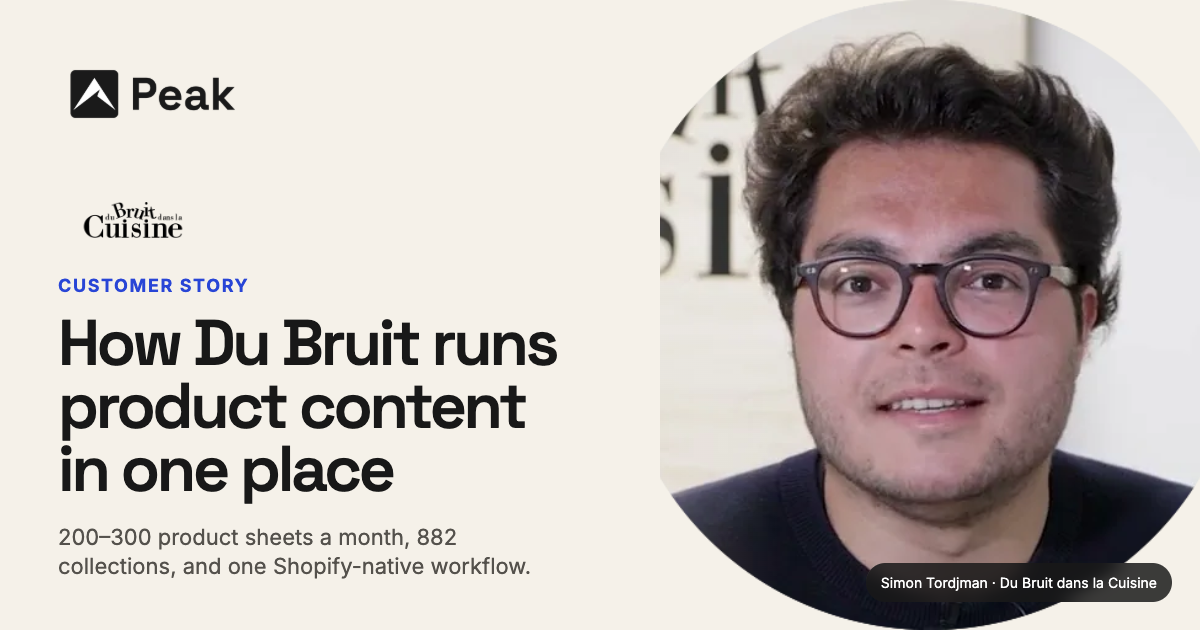
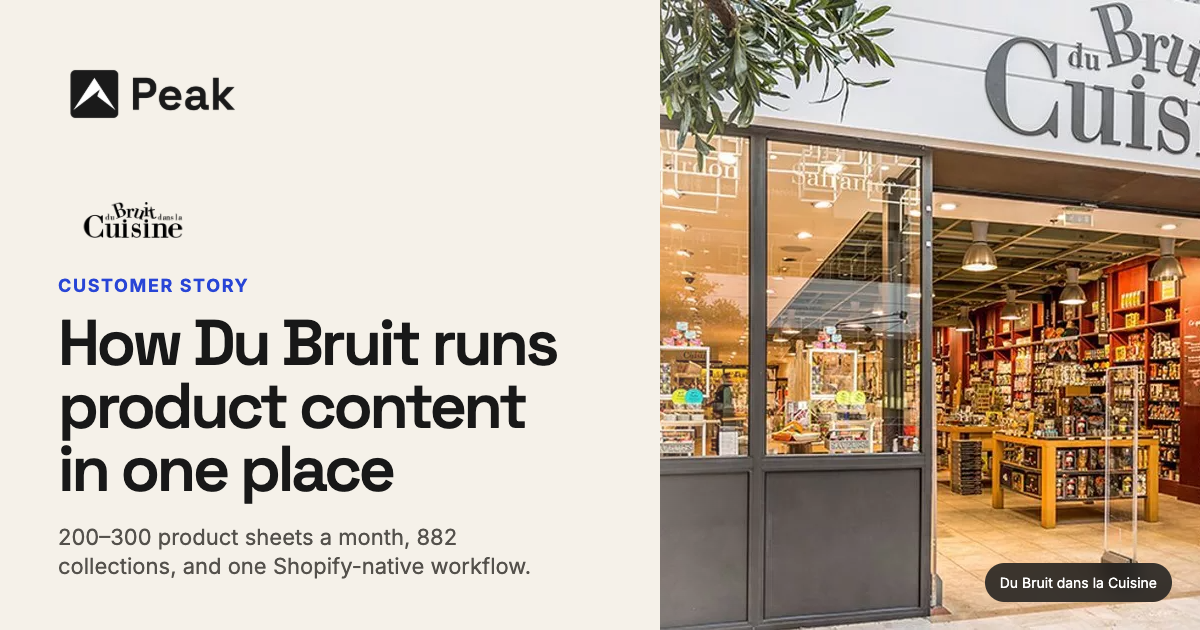
Use storefront photo for Du Bruit story

diff --git a/tests/visual/design-system.spec.ts b/tests/visual/design-system.spec.ts
@@ -93,7 +93,7 @@ test("customers menu · House of Staunton use case fits and links from the share
     await expect(link.locator(".customers-mega-menu__story-content > span:not(.customers-mega-menu__action)")).toHaveText(target.description);
     const duBruitLink = stories.locator('.customers-mega-menu__story-link[href="/customers/du-bruit-dans-la-cuisine/"]');
     await expect(duBruitLink).toBeVisible();
-    await expect(duBruitLink.locator(".customers-mega-menu__story-image > img")).toHaveAttribute("src", "/assets/testimonials/simon-tordjman-du-bruit-dans-la-cuisine.webp");
+    await expect(duBruitLink.locator(".customers-mega-menu__story-image > img")).toHaveAttribute("src", "/assets/testimonials/du-bruit-dans-la-cuisine-storefront.webp");
     await expect(duBruitLink.locator(".customers-mega-menu__story-logo img")).toHaveAttribute("alt", "Du Bruit dans la Cuisine");
     await expect(duBruitLink.locator(".customers-mega-menu__story-content > span:not(.customers-mega-menu__action)")).toHaveText(target.duBruitDescription);
     expect(await link.locator(".customers-mega-menu__story-logo").evaluate((element) => getComputedStyle(element).backgroundColor)).toBe("rgba(25, 25, 25, 0.94)");
@@ -692,7 +692,7 @@ test("global navigation · every feature is grouped and reachable", async ({ pag
     await expect(houseOfStauntonStoryLink.locator(".customers-mega-menu__story-content > span:not(.customers-mega-menu__action)")).toHaveText("Unify product data across three Shopify stores.");
     const duBruitStoryLink = header.locator('.customers-mega-menu__story-link[href="/customers/du-bruit-dans-la-cuisine/"]');
     await expect(duBruitStoryLink).toHaveCount(1);
-    await expect(duBruitStoryLink.locator(".customers-mega-menu__story-image > img")).toHaveAttribute("src", "/assets/testimonials/simon-tordjman-du-bruit-dans-la-cuisine.webp");
+    await expect(duBruitStoryLink.locator(".customers-mega-menu__story-image > img")).toHaveAttribute("src", "/assets/testimonials/du-bruit-dans-la-cuisine-storefront.webp");
     await expect(duBruitStoryLink.locator(".customers-mega-menu__story-logo img")).toHaveAttribute("alt", "Du Bruit dans la Cuisine");
     await expect(duBruitStoryLink.locator(".customers-mega-menu__story-content > span:not(.customers-mega-menu__action)")).toHaveText("Centralize products, collections, media, and metafields.");
     const customerCardHeights = await header.locator(".customers-mega-menu__reviews-link, .customers-mega-menu__story-link").evaluateAll((cards) => (

diff --git a/src/styles/global.css b/src/styles/global.css
@@ -1299,12 +1299,10 @@ path[style*="pp-pos-conn-line-pulse"] {
   flex-direction: column;
 }
 
-@media screen and (min-width: 992px) {
-  .customers-mega-menu__reviews-link,
-  .customers-mega-menu__stories .customers-mega-menu__story-link {
-    height: 9.5rem;
-    min-height: 9.5rem;
-  }
+.customers-mega-menu__reviews-link,
+.customers-mega-menu__stories .customers-mega-menu__story-link {
+  height: 9.5rem;
+  min-height: 9.5rem;
 }
 
 .customers-mega-menu__reviews-link strong,

diff --git a/src/data/assets.ts b/src/data/assets.ts
@@ -48,6 +48,7 @@ export const assets = {
     houseOfStauntonChess: "/assets/testimonials/house-of-staunton-chess.png",
     shawnHouseOfStaunton: "/assets/testimonials/shawn-house-of-staunton.jpeg",
     simonTordjman: "/assets/testimonials/simon-tordjman-du-bruit-dans-la-cuisine.webp",
+    duBruitStorefront: "/assets/testimonials/du-bruit-dans-la-cuisine-storefront.webp",
   },
   team: {
     foundersTechForRetail: "/assets/team/peak-pim-founders-tech-for-retail.jpg",
